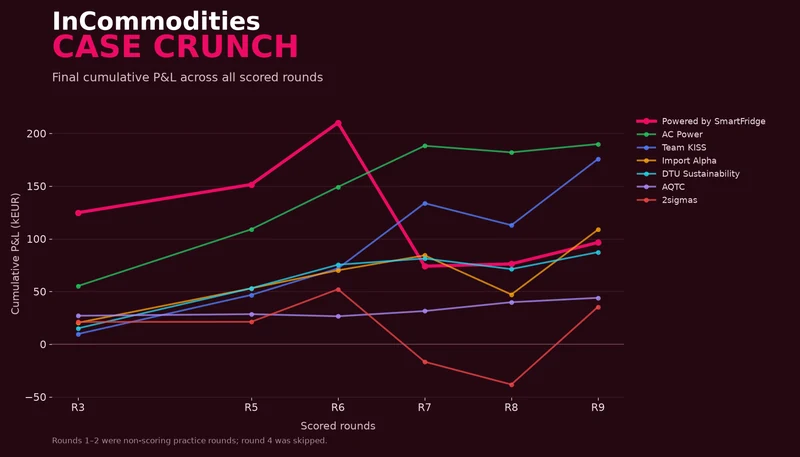
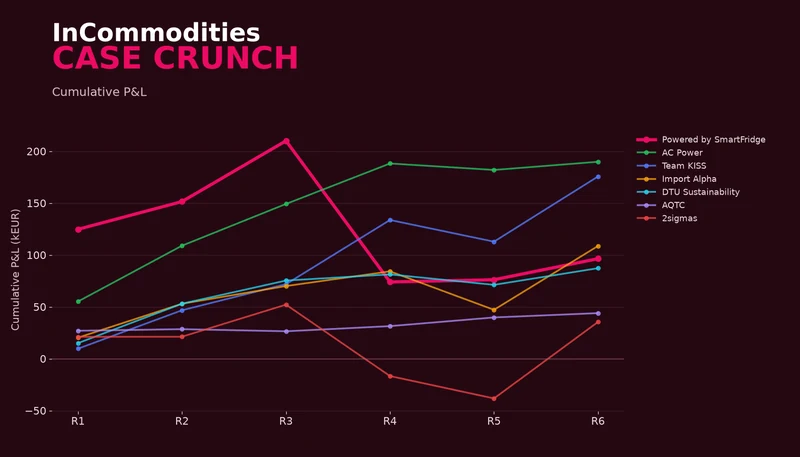
Simplify Case Crunch project chart

diff --git a/src/App.tsx b/src/App.tsx
@@ -103,7 +103,7 @@ const projects: Project[] = [
     end: '2026-03',
     summary: 'Forecasting electricity spot prices and bidding on cross-border transmission capacity for the InCommodities Case Crunch.',
     image: '/assets/electricity-forecasting.webp',
-    imageCredit: 'Cumulative P&L reconstructed from the Case Crunch 2026 round results, using the original competition round numbers.',
+    imageCredit: 'Final cumulative P&L reconstructed from the Case Crunch 2026 round results.',
     description: [
       'I competed in the InCommodities Case Crunch final in Aarhus, a live market simulation using virtual capital.',
       'We forecast hourly UK and French electricity spot prices and bid on physical cross-border transmission capacity. Our feature-engineered ensemble combined a LoRA-fine-tuned Chronos-2 model with gradient-boosted trees and achieved the competition\'s lowest held-out RMSE.',
